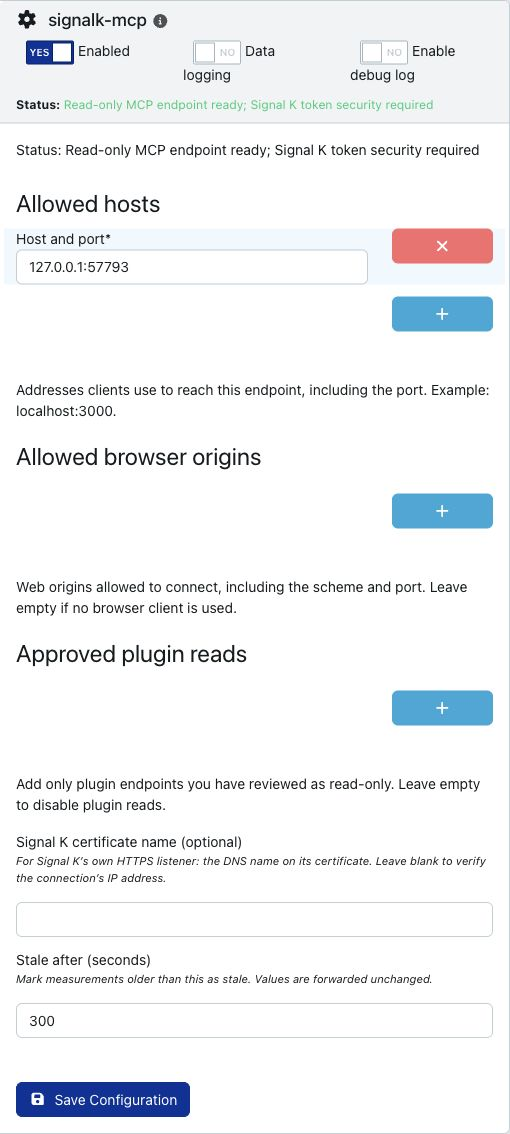
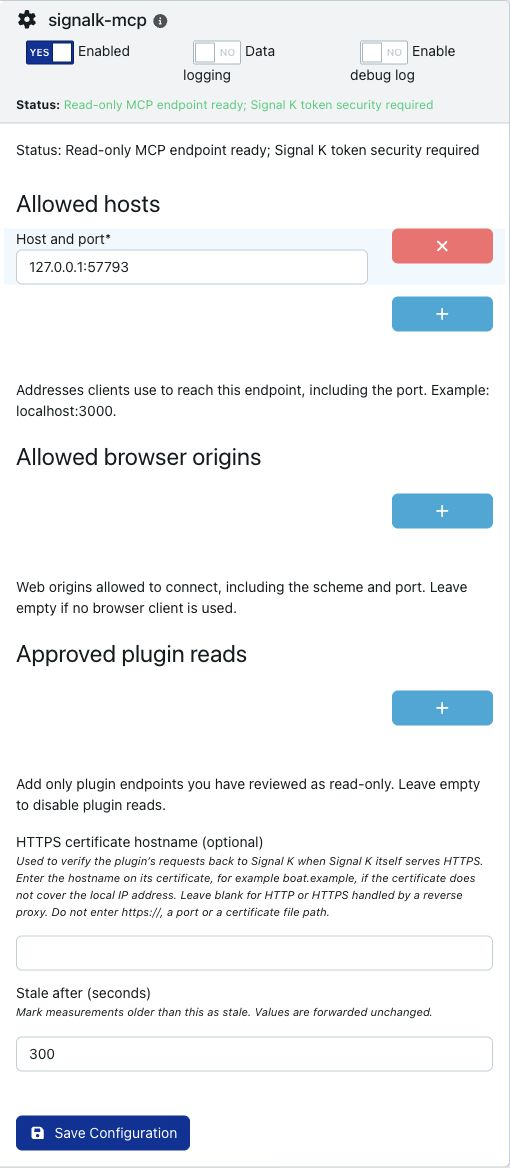
docs: explain when the HTTPS certificate hostname is needed

diff --git a/src/config.ts b/src/config.ts
@@ -100,9 +100,9 @@ export const schema = {
     },
     localTlsServerName: {
       type: "string",
-      title: "Signal K certificate name (optional)",
+      title: "HTTPS certificate hostname (optional)",
       description:
-        "For Signal K’s own HTTPS listener: the DNS name on its certificate. Leave blank to verify the connection’s IP address.",
+        "Used to verify the plugin’s requests back to Signal K when Signal K itself serves HTTPS. Enter the hostname on its certificate, for example boat.example, if the certificate does not cover the local IP address. Leave blank for HTTP or HTTPS handled by a reverse proxy. Do not enter https://, a port or a certificate file path.",
       maxLength: 253,
     },
     staleAfterSeconds: {
